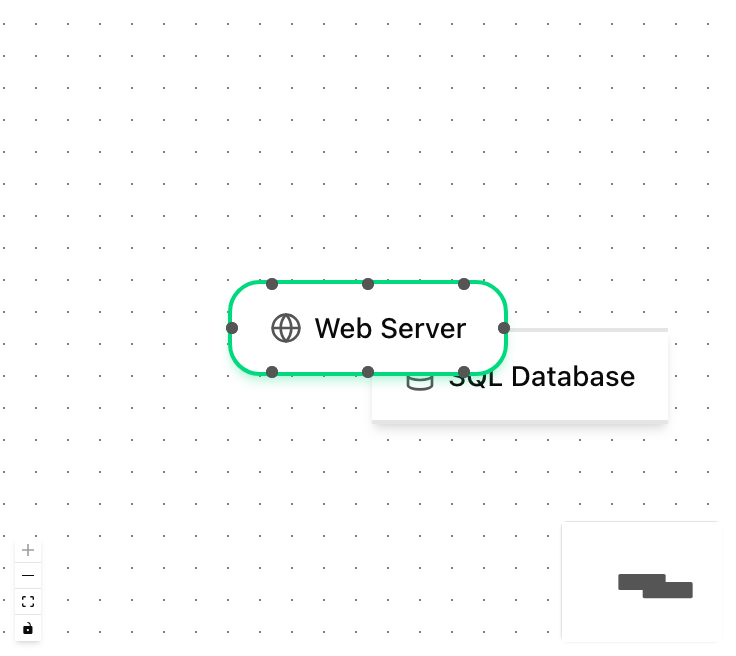
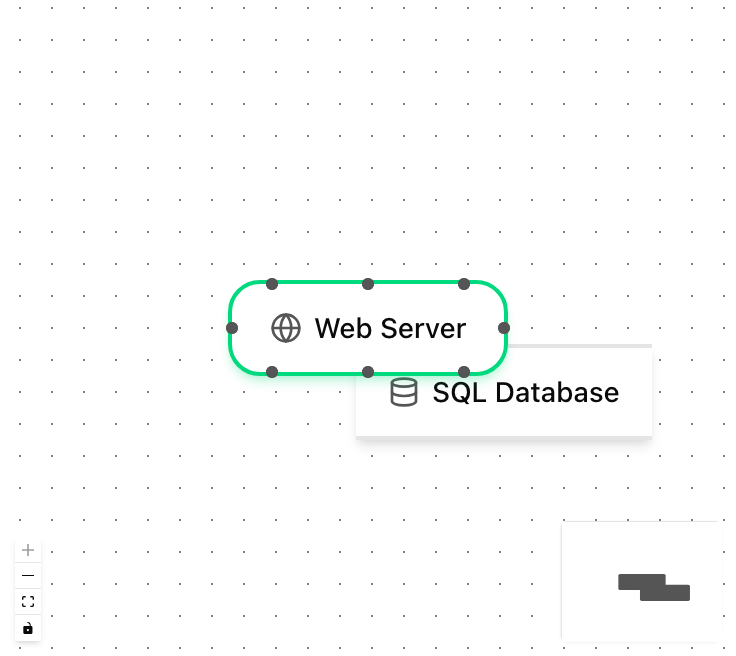
fix(e2e): close the canvas and onboarding races in the shared test helpers
The Canvas Elements specs (and every other caller of the shared add-element helper)
timed out non-deterministically at e2e/fixtures.ts under a saturated runner. Two
independent readiness races caused it; both are closed here with state-based waits,
not longer sleeps.

1. Canvas mount race. createModel returned as soon as the component palette was
   visible, but the palette lives in the sidebar and paints before the lazy-loaded
   DfdCanvas chunk mounts. Measured: in 12 of 12 runs the ReactFlow pane count was 0
   at the instant createModel returned, with a 289-787ms gap before readiness. Every
   addPaletteItem call was therefore double-clicking a mid-mount surface, where
   getCanvasCenter falls back to a constant {200,200} because .react-flow is absent.
   createModel and addPaletteItem now gate on .react-flow__pane, which @user/react
   renders as soon as ReactFlow initializes and before any node exists.

2. Onboarding guide race. The fixture seeds threatforge-last-seen-version to suppress
   the What's New overlay, but use-onboarding-triggers reads that same key as proof no
   modal is up and therefore enables the welcome guide; dfd-basics then auto-starts on
   an 800ms timer after first model creation. Both render a full-viewport guide-overlay
   that intercepts pointer events. The suite was passing only by out-racing that timer,
   which a saturated CI runner defeats. The fixture now seeds threatforge-onboarding so
[…]

Changed region(s): [[0.4688, 0.4878, 0.9062, 0.7012], [0.875, 0.8841, 0.9688, 0.9146]]

diff --git a/e2e/fixtures.ts b/e2e/fixtures.ts
@@ -13,33 +13,74 @@ export async function dismissWhatsNew(page: Page) {
 	}
 }
 
+/**
+ * Wait until the ReactFlow surface is mounted and interactive.
+ *
+ * The canvas is lazy-loaded behind a Suspense boundary, so the palette (which lives in the
+ * sidebar) paints well before the canvas chunk mounts. Any interaction that adds an element
+ * needs the canvas itself, not just the palette. `.react-flow__pane` is rendered by
+ * @xyflow/react as soon as ReactFlow initializes and before any node exists, which makes it
+ * the correct pre-first-add readiness anchor. Idempotent: a no-op once the pane is visible.
+ */
+export async function waitForCanvasReady(page: Page) {
+	await page.locator(".react-flow__pane").waitFor({ state: "visible" });
+}
+
 /** Click the "New Model" button from the empty canvas state and wait for the canvas to load */
 export async function createModel(page: Page) {
 	await page.getByTestId("btn-empty-new").click();
 	await page.getByTestId("component-palette").waitFor({ state: "visible" });
+	await waitForCanvasReady(page);
 }
 
 /** Double-click a palette item to add it to the canvas and wait for the node count to increase */
 export async function addPaletteItem(page: Page, testId: string) {
+	// Defense in depth: any caller reaching here without going through createModel is still safe.
+	await waitForCanvasReady(page);
 	const nodesBefore = await page.locator("[data-testid^='node-']").count();
 	const item = page.getByTestId(testId);
 	await item.waitFor({ state: "visible" });
 	await item.dblclick();
-	// Wait until ReactFlow renders the new node
-	await expect(page.locator("[data-testid^='node-']")).toHaveCount(nodesBefore + 1);
+	// Wait until ReactFlow renders the new node. The readiness gate above removes the mount
+	// race; this bounded per-assertion timeout (#111) only absorbs residual React-commit
+	// latency on a CPU-saturated runner. Deliberately local — the issue forbids raising the
+	// global expect timeout, and a node that is never added still fails here.
+	await expect(page.locator("[data-testid^='node-']")).toHaveCount(nodesBefore + 1, {
+		timeout: 15000,
+	});
 }
 
+/** Every guide id in src/lib/onboarding/guides.ts; auto-start is suppressed for all of them. */
+const ALL_GUIDE_IDS = ["welcome", "dfd-basics", "stride-analysis", "ai-assistant"];
+
 /**
- * Custom test fixture that automatically seeds localStorage to suppress
- * the What's New overlay on every test. This prevents the overlay from
- * blocking clicks in any test that navigates to "/".
+ * Custom test fixture that seeds localStorage to suppress both first-run interstitials
+ * before the page loads.
+ *
+ * Two distinct overlays block interaction, and both must be suppressed (#111):
+ *
+ * 1. The What's New overlay, keyed on `threatforge-last-seen-version`.
+ * 2. The onboarding guides, which render a full-viewport `guide-overlay` that intercepts
+ *    pointer events. `welcome` auto-starts 500ms after mount and `dfd-basics` 800ms after
+ *    the first model is created (`use-onboarding-triggers.ts`). Seeding only the What's New
+ *    key actually *enables* the welcome guide, because `isWhatsNewVisible()` treats that key
+ *    as proof no other modal is up. Specs previously passed only by racing ahead of the
+ *    800ms timer, which made every add-element spec timing-dependent — the exact
+ *    non-determinism #111 exists to remove.
+ *
+ * Guide behavior itself is covered by unit tests in
+ * src/components/onboarding/guide-overlay.test.tsx, so suppressing auto-start here removes a
+ * timing dependency without dropping coverage of the feature.
  */
 export const test = base.extend({
 	page: async ({ page }, use) => {
-		// Seed localStorage before the page loads so the What's New overlay doesn't appear
-		await page.addInitScript(() => {
+		await page.addInitScript((guideIds: string[]) => {
 			localStorage.setItem("threatforge-last-seen-version", "1.0.0");
-		});
+			localStorage.setItem(
+				"threatforge-onboarding",
+				JSON.stringify({ completedGuideIds: [], dismissedGuideIds: guideIds }),
+			);
+		}, ALL_GUIDE_IDS);
 		await use(page);
 	},
 });